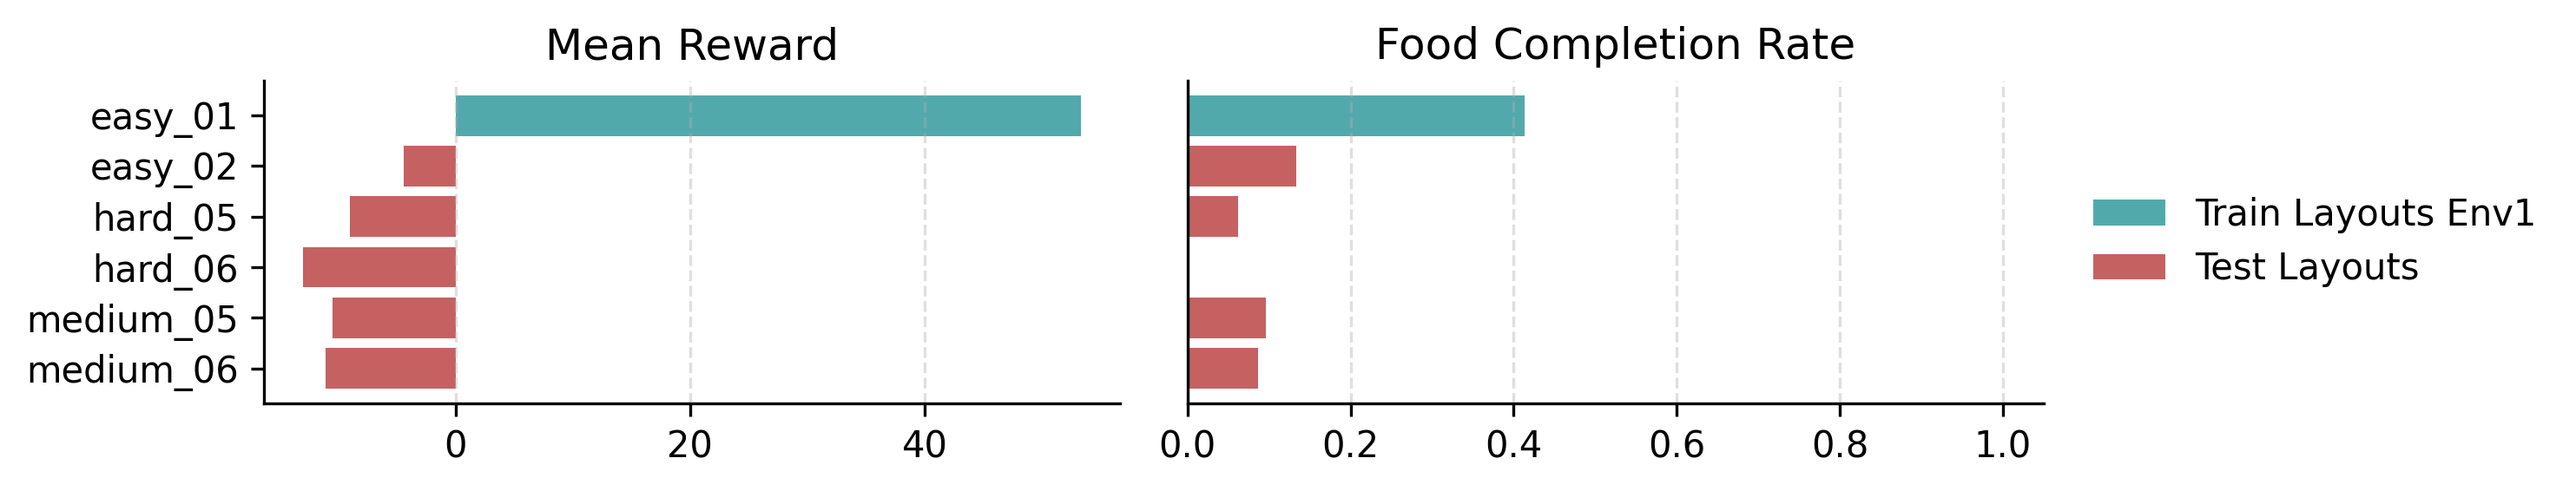
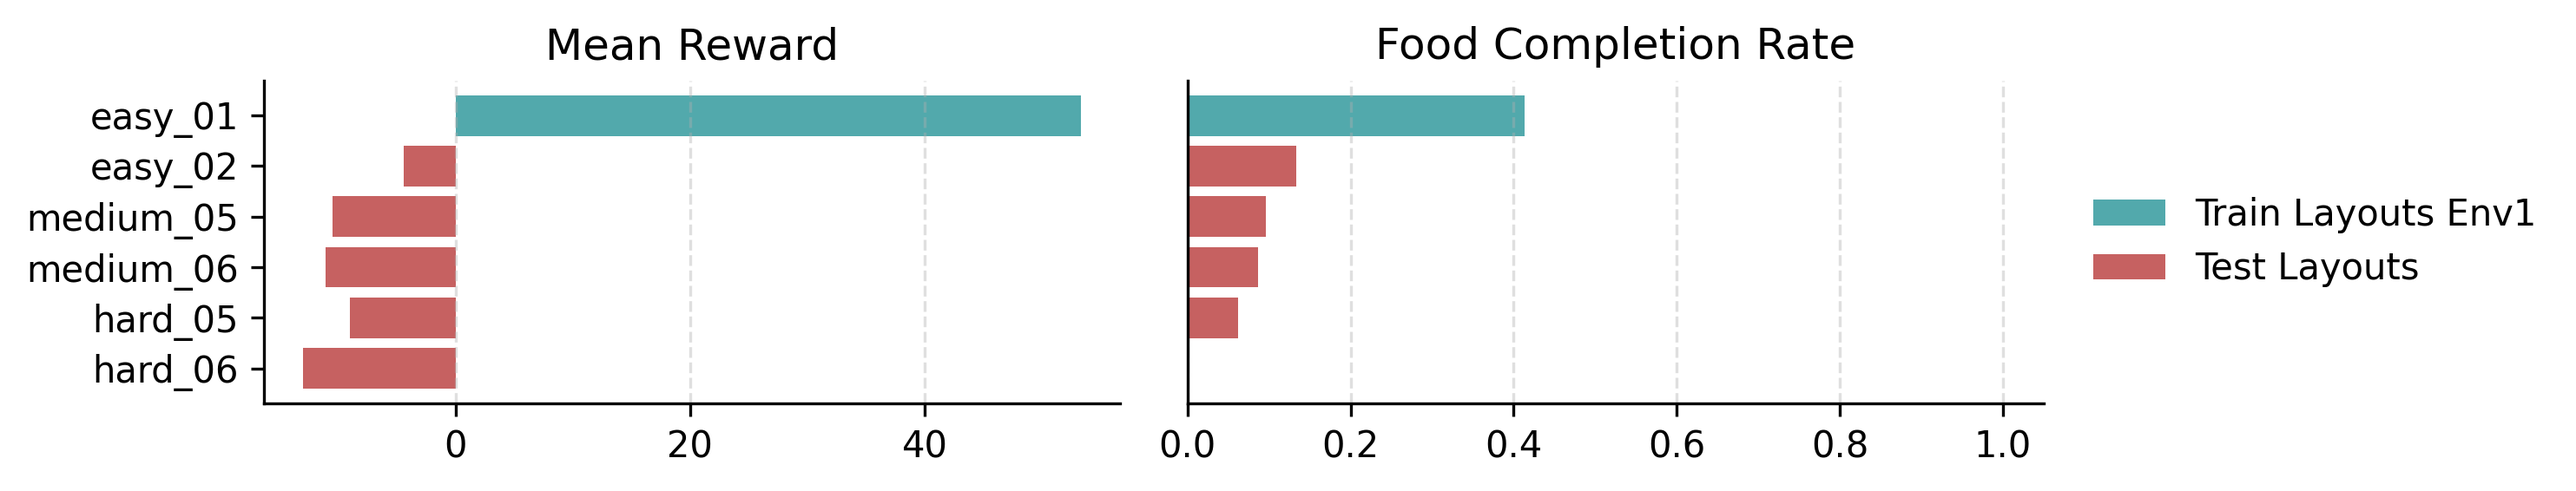
replace plots

diff --git a/results.py b/results.py
@@ -173,7 +173,7 @@ def plot_layout_summary(df, env_name=None,
     df["color"] = get_pastel_colors(df, test_maps, train_maps)
 
     # optional sort
-    df = df.sort_values(["color", "layout_name"])
+    df = df.sort_values(["color"])
 
     fig, axes = plt.subplots(1, 2, figsize=figsize)
 
